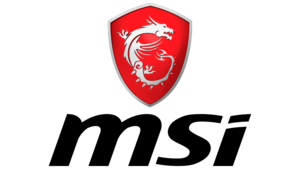
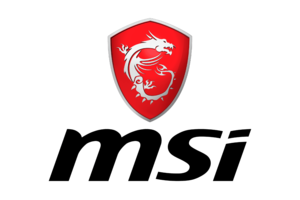
Added Some fixes to the pictures in brands and added a media query for how the images fit

Changed region(s): [[0.15, 0.503, 0.84, 1.0], [0.36, 0.0, 0.66, 0.5325]]

diff --git a/index.js b/index.js
@@ -28,12 +28,11 @@ navToggle.addEventListener('click', () => {
 
 //This part shows us which links are we on---for sub-nav-links only
 const activePage = window.location.pathname;
-const navLinks = document.querySelectorAll('.sub-nav-links a').forEach(link => {
+const subnavLinks = document.querySelectorAll('.sub-nav-links a').forEach(link => {
   if (link.href.includes(`${activePage}`)){
-    // link.classList.add('active');
 
-    const btn_navlinks = link.querySelector('div');
-    btn_navlinks.classList.add('sub-nav-links-active');
+    const btn_subnavlinks = link.querySelector('div');
+    btn_subnavlinks.classList.add('sub-nav-links-active');
   }
 });
 

diff --git a/index.css b/index.css
@@ -67,3 +67,9 @@
 video::-internal-media-controls-overlay-cast-button {
     display: none;
 }
+
+@media screen and (max-width: 56rem) {
+  .brands .content-slider li > div > img{
+    width: 100%;
+  }
+}

diff --git a/index.php b/index.php
@@ -68,28 +68,6 @@
           </li>
         </ul>
       </div>
-      <!-- <div class="item">
-            <ul id="content-slider" class="content-slider">
-                <li>
-                    <h3>1</h3>
-                </li>
-                <li>
-                    <h3>2</h3>
-                </li>
-                <li>
-                    <h3>3</h3>
-                </li>
-                <li>
-                    <h3>4</h3>
-                </li>
-                <li>
-                    <h3>5</h3>
-                </li>
-                <li>
-                    <h3>6</h3>
-                </li>
-            </ul>
-        </div> -->
       <div id="product-sales" class="product-sales">product-sales</div>
       <div id="recommended-products" class="recommended-products">recommended-products</div>
     </div>
@@ -118,7 +96,7 @@
               speed: 1000,
               keyPress:true,
               auto: true,
-              item: 1,
+              item: 3,
               pause: 10000,
               pager: false
           });
